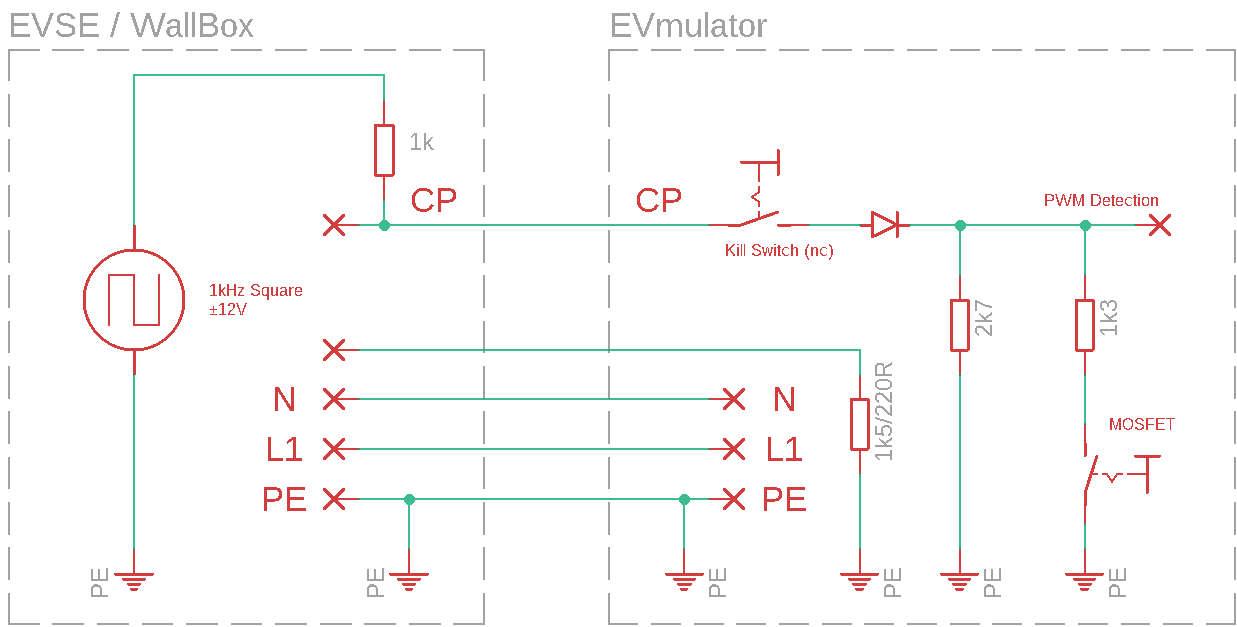
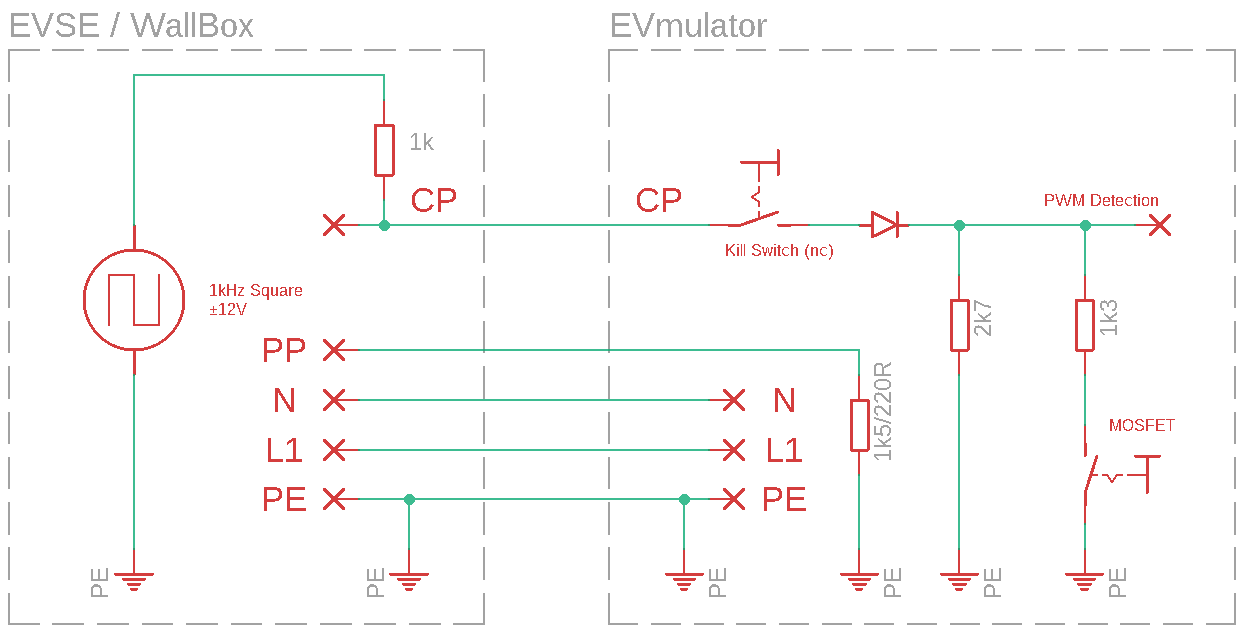
fixed principle schematatic

diff --git a/README.md b/README.md
@@ -16,7 +16,7 @@ It's currently running with an ATTiny85, although an ATTiny25 will suffice. In t
 
 The EVmulator simulates a connected car for the EVSE (electric vehicle supply equipment, the wallbox)
 
-<img src="./doc/evmulator_principle.png" width="600">
+<img src="./doc/evmulator_principle.png" width="800">
 
 The EVSE outputs a 1kHz square wave signal with ±12V referenced to PE with 1000 ohms impedance on the CP (Control Pilot) pin and measures the voltage of the CP line.
 As the EVmulator has a 1300 ohms resitor to PE, the positive voltage of the CP line is pulled to 9V and the EVSE detects a connected car.
